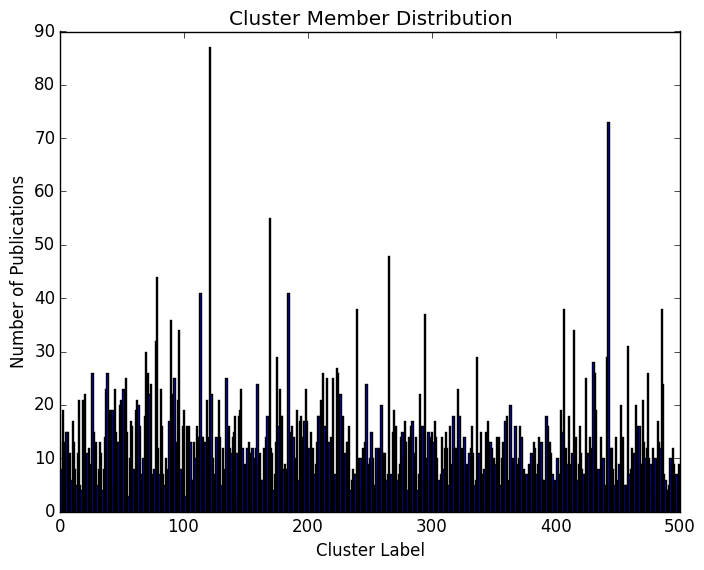
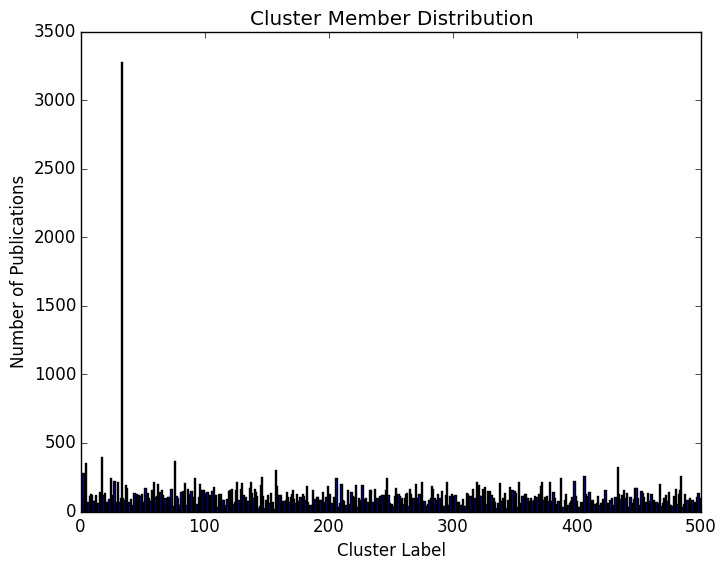
added code to clean the data and change the paper display order

Changed region(s): [[0.0, 0.0298, 1.0, 0.9842], [0.3125, 0.0, 0.75, 0.0596], [0.0, 0.4474, 0.0312, 0.4772]]

diff --git a/arxiv_analysis_v3.py b/arxiv_analysis_v3.py
@@ -32,11 +32,13 @@ stop = stopwords.words('english')
 if scicano_site.site == 'local':
     cpath = os.getcwd() + '/'
     staticpath = os.getcwd() + '/static/'
+    #dbpath = cpath
+    dbpath = '/home/tilan/data/ext_data/arxiv/'
 else:
     cpath = '/home/tilanukwatta/scicano/'
     staticpath = '/home/tilanukwatta/scicano/static/'
-#dbpath = '/home/tilan/data/ext_data/arxiv/'
-dbpath = cpath
+    dbpath = cpath
+
 df_file_name = "arxiv_papers.sqlite.db"
 
 def tokenizer_porter(text):
@@ -128,11 +130,12 @@ def perform_cluster_analysis(dataset):
 
         #K = range(1, 50, 5)
         K = [1, 2, 5, 10, 50, 100, 200, 300, 400, 500, 600, 700, 800, 900, 1000]
+        #K = [1, 2, 5, 10, 50, 100]
         meandistortions = []
         cluster_centers = []
         for k in K:
             print k
-            kmeans = KMeans(n_clusters=k)
+            kmeans = KMeans(n_clusters=k, n_jobs=3)
             kmeans.fit(X)
             #import ipdb; ipdb.set_trace() # debugging code
             #meandistortions.append(sum(np.min(cdist(X, kmeans.cluster_centers_, 'euclidean'), axis=1))/X.shape[0])
@@ -223,7 +226,7 @@ def find_clusters(paper_text, num_clusters, search_text):
         predict = model[1]
     else:
         print "Clustering the data..."
-        kmeans = KMeans(n_clusters=k, n_jobs=2)
+        kmeans = KMeans(n_clusters=k, n_jobs=3)
         kmeans.fit(X)
         predict = kmeans.predict(X)
         model = [kmeans, predict]

diff --git a/scicano.py b/scicano.py
@@ -21,11 +21,15 @@ app = Flask(__name__)
 
 if scicano_site.site == 'local':
     cpath = os.getcwd() + '/'
+    #dbpath = cpath
+    dbpath = '/home/tilan/data/ext_data/arxiv/'
 else:
     cpath = '/home/tilanukwatta/scicano/'
-#dbpath = '/home/tilan/data/ext_data/arxiv/'
-dbpath = cpath
+    dbpath = cpath
+
 df_file_name = "arxiv_papers.sqlite.db"
+
+num_latest = 25  # display 25 most recent papers
 
 class searchForm(Form):
     #search_text = TextAreaField('', [validators.DataRequired()])
@@ -35,9 +39,10 @@ def get_paper_info(index):
     conn = sqlite3.connect(dbpath + df_file_name)
     c = conn.cursor()
 
-    #c.execute('SELECT * FROM arxiv_papers ORDER BY rowid')
-    #import ipdb; ipdb.set_trace() # debugging code
-    c.execute('SELECT * FROM arxiv_papers WHERE rowid in ({0})'.format(', '.join('?' for _ in index)), index)
+    # display 25 most recent papers
+    index = sorted(index, reverse=True)[:num_latest]
+
+    c.execute('SELECT * FROM arxiv_papers WHERE rowid IN ({0}) ORDER BY rowid DESC'.format(', '.join('?' for _ in index)), index)
 
     conn.commit()
     results = c.fetchall()
